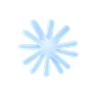
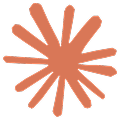
Harness marks as Buzz shows them, not its plugin artwork
The harness cards, Agent setup and the agent's panel now use the marks Buzz itself shows for each
harness (block/buzz-app src/shared/design-system/icons/HarnessLogos.tsx and claude.png; owners and
licenses in its NOTICE.md): OpenAI's black Blossom for Codex, Claude's orange mark, Goose's mark
and Pi's black tile. The light-blue plugin artwork is gone, and the cards are neutral, with a warm
tint only behind Claude.

diff --git a/site/src/scenes/agentflow.ts b/site/src/scenes/agentflow.ts
@@ -1,6 +1,10 @@
 import maya from "../assets/avatars/maya.svg";
 import ops from "../assets/avatars/ops.webp";
 import reviewer from "../assets/avatars/reviewer.webp";
+// the marks Buzz shows for each harness (block/buzz-app src/shared/design-system/icons/HarnessLogos.tsx, claude.png)
+import claudeMark from "../assets/harness/claude.png";
+import codexMark from "../assets/harness/codex.svg";
+import gooseMark from "../assets/harness/goose.svg";
 import { app, communityNav, settingsModal, sidebar, ti, type Flow } from "./members";
 
 /**
@@ -9,7 +13,7 @@ import { app, communityNav, settingsModal, sidebar, ti, type Flow } from "./memb
  * Identity tab: Harness, Model and Thinking, then Instructions. The pictures are from Buzz's own avatar
  * packs; the names and the instructions are illustrative (the skill's example, agents.md).
  */
-export const CLAUDE_MARK = `<svg class="ax-mark" viewBox="0 0 24 24" aria-hidden="true"><path d="M12 3.5v17M3.5 12h17M6 6l12 12M18 6 6 18"/></svg>`;
+export const CLAUDE_MARK = `<img class="ax-mark" src="${claudeMark}" alt="">`;
 const tile = (img: string, name: string, tint: string, on = false) =>
   `<div class="ax-card ${tint}${on ? " hot" : ""}"><i class="ax-more">•••</i><img src="${img}" alt=""><b>${name}</b><span class="ax-chip">${CLAUDE_MARK}sonnet${ti("chevron-down")}</span></div>`;
 const INSTRUCTIONS_TEXT = "You help the Riverbend Tool Library volunteers in this community. Answer questions about opening hours and loans from the files in this workspace.";
@@ -48,8 +52,8 @@ const agentsPage = (open: boolean, menu = false) =>
  * is drawn signed in, with the default model the capture showed; signed out it shows Sign in.
  */
 export const MK_BL = `<span class="as-mk bl">B</span>`;
-const MK_CODEX = `<svg class="as-mk" viewBox="0 0 24 24" aria-hidden="true"><path d="M12 3.5a4 4 0 0 1 3.9 3.1 4 4 0 0 1 3.4 5.6 4 4 0 0 1-2.4 6.4 4 4 0 0 1-6.6 1.5 4 4 0 0 1-5.8-3.4 4 4 0 0 1-.6-6.6A4 4 0 0 1 9 4.4a4 4 0 0 1 3-.9z"/></svg>`;
-const MK_GOOSE = `<svg class="as-mk" viewBox="0 0 24 24" aria-hidden="true"><path d="M5 4l14 16M19 4 5 20"/></svg>`;
+const MK_CODEX = `<img class="as-mk" src="${codexMark}" alt="">`;
+const MK_GOOSE = `<img class="as-mk" src="${gooseMark}" alt="">`;
 const setupNav = communityNav("Agent setup", false);
 const agentSetup = (spot: "" | "claude" | "goose") => `<section class="mb-page as-page">
   <h5>Agent setup</h5>

diff --git a/site/src/styles/overhaul.css b/site/src/styles/overhaul.css
@@ -643,11 +643,13 @@ a.mp-link:hover { background: #2b2724; }
 /* ── Prettier drawings (owner's ask, 2026-11-23): the Maple card's style, carried to six more ── */
 .mp-cell i svg, .hn-head svg, .ac-tile i svg, .rk-top i svg, .sv-head i svg, .sv-off svg, .sv-banner svg, .fq-sees-h svg, .rl-chip svg, .fq-roles .fq-y svg, .fq-roles .fq-n svg, .opx-bk-i svg, .opx-bk-badge svg { fill: none; stroke: currentColor; stroke-width: 2; stroke-linecap: round; stroke-linejoin: round; }
 
-/* harness cards: Buzz's own icons on a soft blue that matches them */
+/* harness cards: the marks Buzz shows for each harness, in their own colors, on neutral cards */
 .hn-grid { display: grid; grid-template-columns: repeat(auto-fit, minmax(250px, 1fr)); gap: 12px; }
 .hn-card { overflow: hidden; border-radius: 16px; background: #fff; box-shadow: 0 0 0 1px var(--line-2), 0 10px 26px rgb(24 20 14 / 5%); }
-.hn-head { display: flex; align-items: center; gap: 12px; padding: 14px 16px; border-bottom: 1px solid var(--line); background: radial-gradient(120% 160% at 0% 0%, rgb(120 165 255 / 20%), transparent 60%), linear-gradient(180deg, #f6f8ff, #fcfcff); }
-.hn-ic { width: 48px; height: 48px; padding: 3px; border-radius: 14px; background: #fff; box-shadow: 0 6px 16px rgb(80 120 220 / 22%); }
+.hn-head { display: flex; align-items: center; gap: 12px; padding: 14px 16px; border-bottom: 1px solid var(--line); background: linear-gradient(180deg, #f7f7f5, #fcfcfb); }
+.hn-card.claude .hn-head { background: radial-gradient(120% 160% at 0% 0%, rgb(217 119 87 / 16%), transparent 60%), linear-gradient(180deg, #fdf7f4, #fffcfa); }
+.hn-ic { width: 48px; height: 48px; padding: 9px; border-radius: 14px; background: #fff; box-shadow: 0 0 0 1px var(--line-2), 0 4px 12px rgb(24 20 14 / 6%); object-fit: contain; }
+.hn-card.pi .hn-ic { padding: 0; box-shadow: 0 4px 12px rgb(24 20 14 / 12%); }
 .hn-head b { display: block; font-size: 17px; font-weight: 600; letter-spacing: -0.01em; }
 .hn-os { display: flex; flex-wrap: wrap; gap: 4px; margin: 5px 0 0; }
 .hn-os span { padding: 1px 8px; border-radius: 999px; background: #fff; box-shadow: 0 0 0 1px var(--line-2); font: 500 11px var(--sans); color: var(--ink-2); }

diff --git a/site/src/scenes/agents.ts b/site/src/scenes/agents.ts
@@ -5,11 +5,12 @@ import { blanksHTML, fillBlanks } from "../lib/blanks";
 import { esc, fill, fillRich, getValues, trackOf } from "../lib/values";
 import { BUZZ_ROBOT, TABLER } from "./tabler";
 import mapleLogo from "../assets/maple.svg";
-// Buzz's own harness icons (block/buzz-app src/bundled/<harness>/icon.png, Apache-2.0), as the app shows them
-import codexIcon from "../assets/harness/codex.png";
+// The marks Buzz itself shows for each harness in Agent setup and Create agent (block/buzz-app
+// src/shared/design-system/icons/HarnessLogos.tsx and claude.png; owners and licenses in its NOTICE.md)
+import codexIcon from "../assets/harness/codex.svg";
 import claudeIcon from "../assets/harness/claude.png";
-import gooseIcon from "../assets/harness/goose.png";
-import piIcon from "../assets/harness/pi.png";
+import gooseIcon from "../assets/harness/goose.svg";
+import piIcon from "../assets/harness/pi.svg";
 
 /**
  * The Agents answers in Running your relay: how to run agents (who each works for), what to tell an
@@ -127,7 +128,7 @@ const MAPLE = `<div class="fq-vis ga-maple">
 const HARNESS_ICON: Record<string, string> = { Codex: codexIcon, Claude: claudeIcon, Goose: gooseIcon, Pi: piIcon };
 const HARNESS = () => `<div class="fq-vis hn-grid">${skill.agents.harness
   .map(
-    ([h, need, where, on]) => `<div class="hn-card">
+    ([h, need, where, on]) => `<div class="hn-card ${h.toLowerCase()}">
     <div class="hn-head"><img class="hn-ic" src="${HARNESS_ICON[h] ?? ""}" alt=""><div><b>${h}</b><p class="hn-os">${on
       .split(/,\s*/)
       .map((o) => `<span>${o}</span>`)

diff --git a/site/src/styles/main.css b/site/src/styles/main.css
@@ -1951,6 +1951,7 @@ h2 .hl svg { width: 19px; }
 .ax-pane .ax-pick .tb-i { width: 8px; height: 8px; }
 .mb-canvas .ax-pane .ax-lab { margin-top: 2px; font-size: 8.5px; }
 .mb-canvas .ax-box { flex: 1; padding: 6px 8px; border-radius: 10px; background: #fff; box-shadow: 0 0 0 1px #e3e3e5; font-size: 8px; line-height: 1.45; color: #2b2b2b; }
+img.ax-mark, img.as-mk { display: inline-block; object-fit: contain; stroke: none; }
 .mb .ax-box.hot { box-shadow: 0 0 0 1px #e3e3e5, 0 0 0 3px #fff, 0 0 0 5px var(--b1-citrus); }
 .mb-main .ax-split { position: relative; }
 .ax-callout { position: absolute; right: calc(44% + 12px); bottom: 24px; padding: 6px 10px; border-radius: 9px; background: var(--b1-citrus); box-shadow: 0 4px 14px rgb(24 20 14 / 16%); font-size: 10px; font-weight: 600; color: #0f0f0f; white-space: nowrap; }
